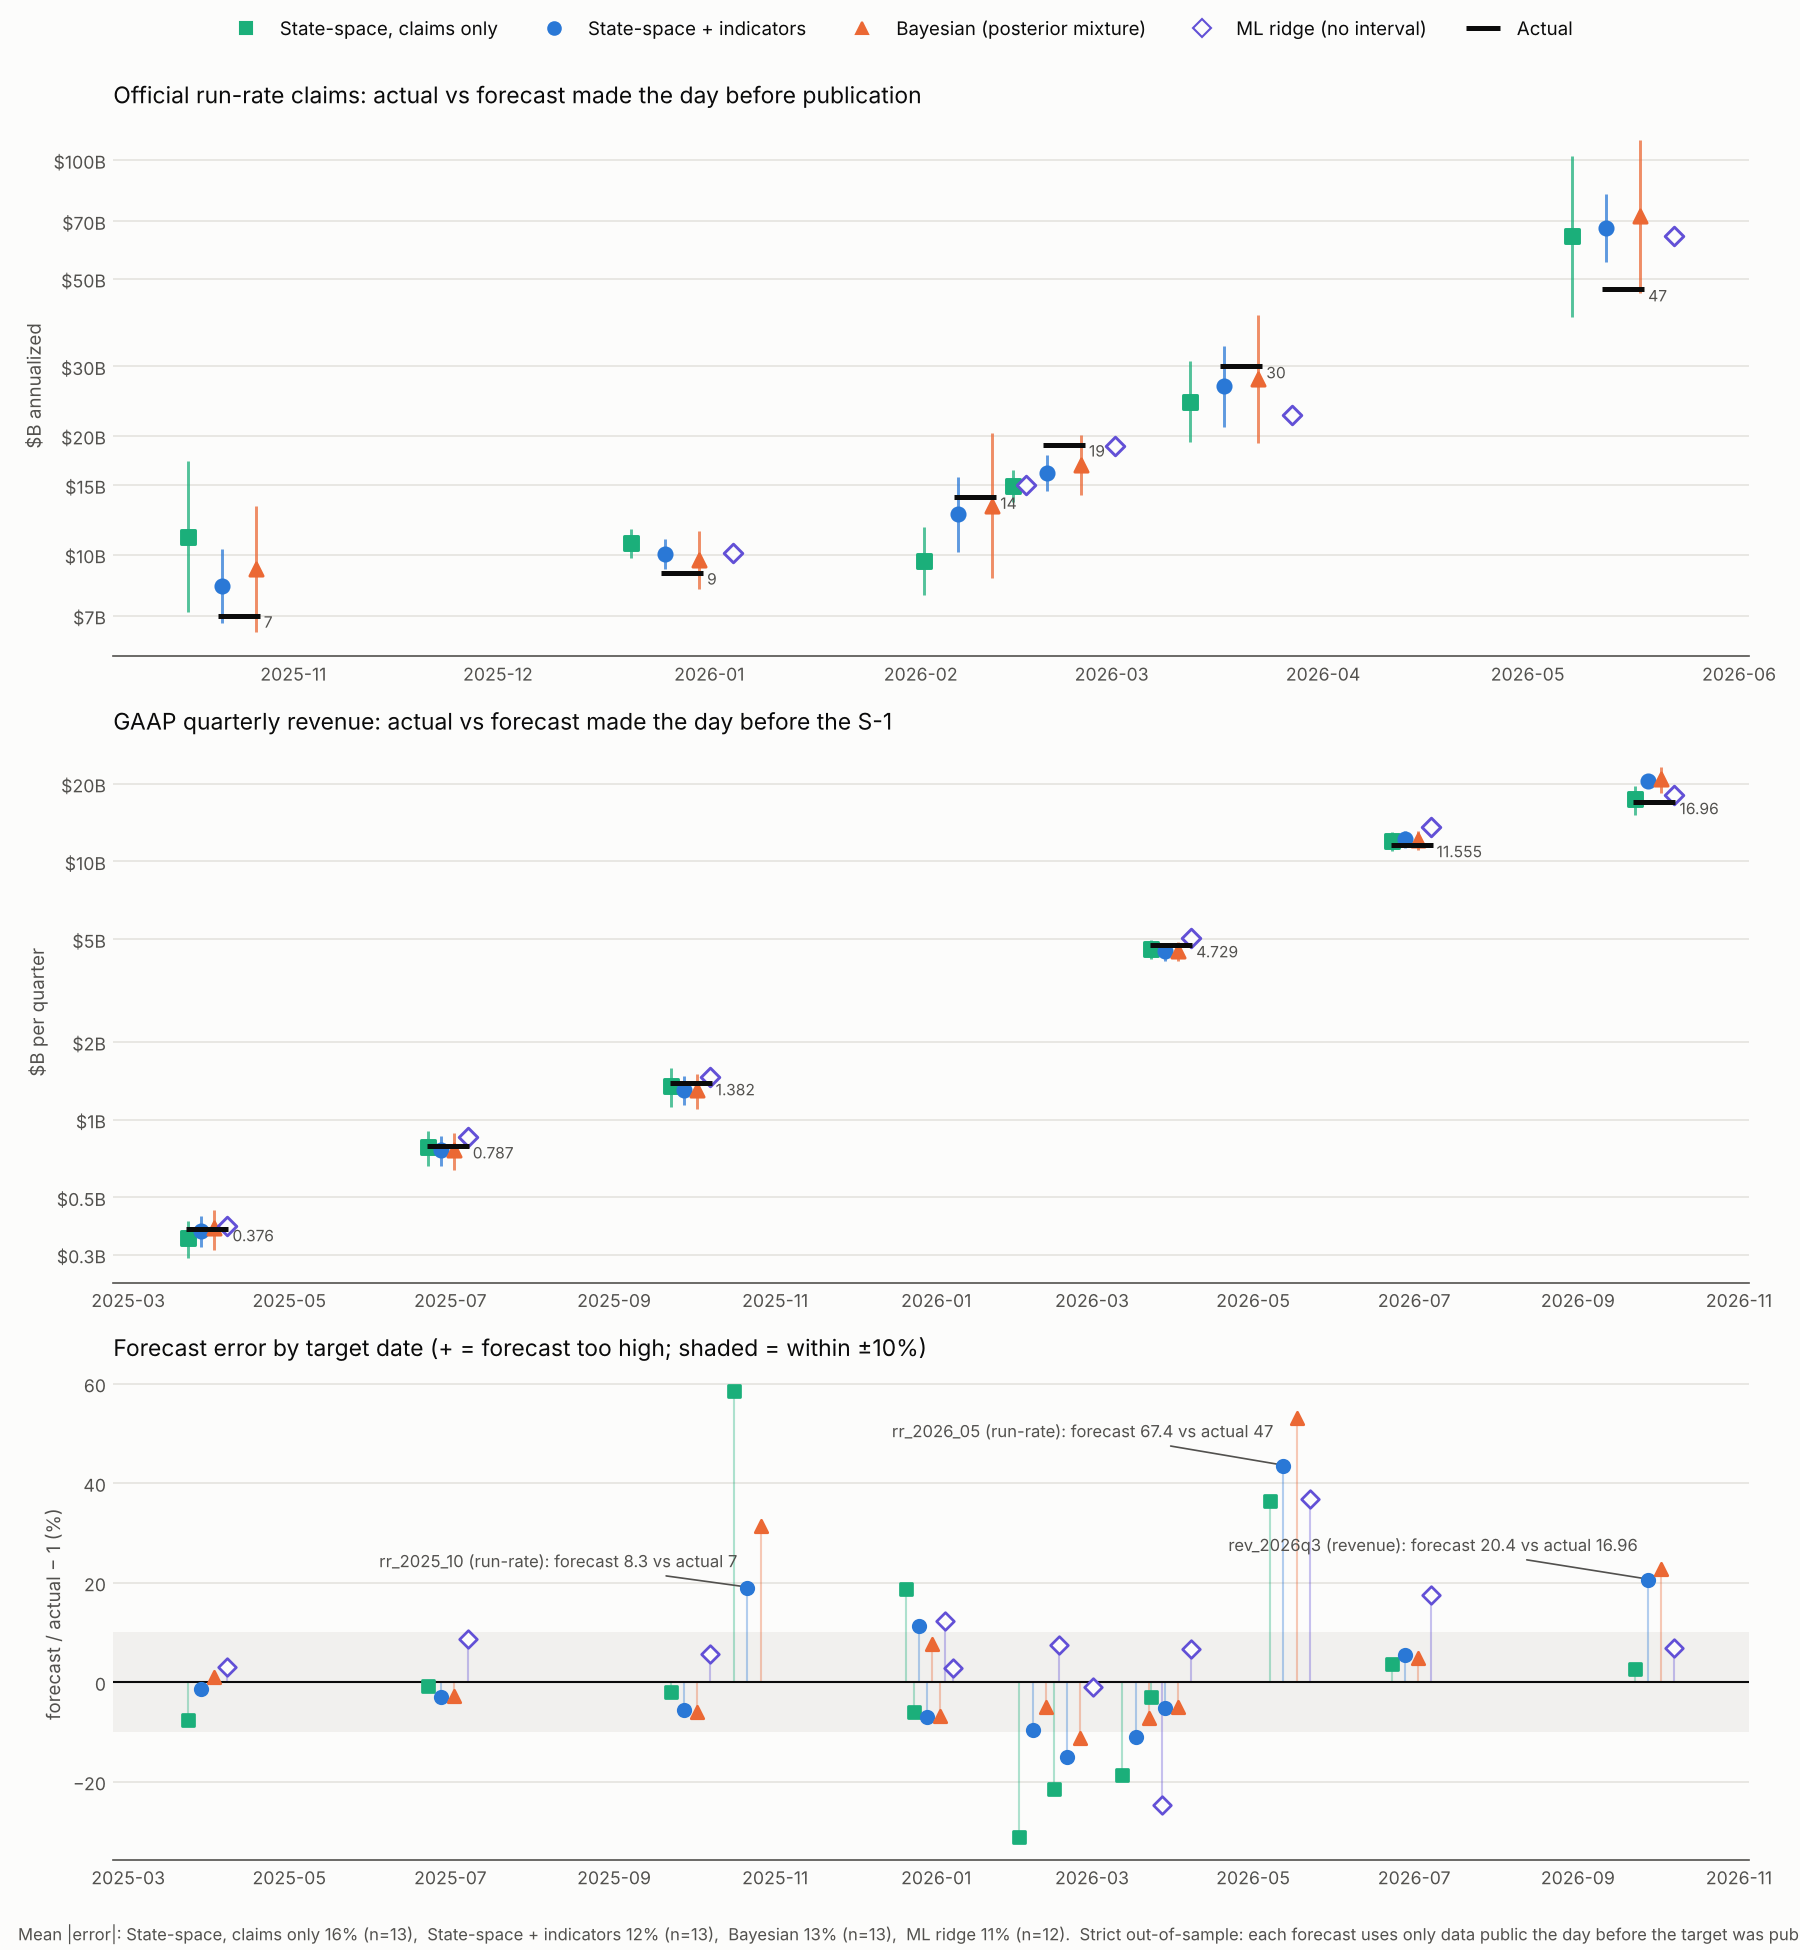
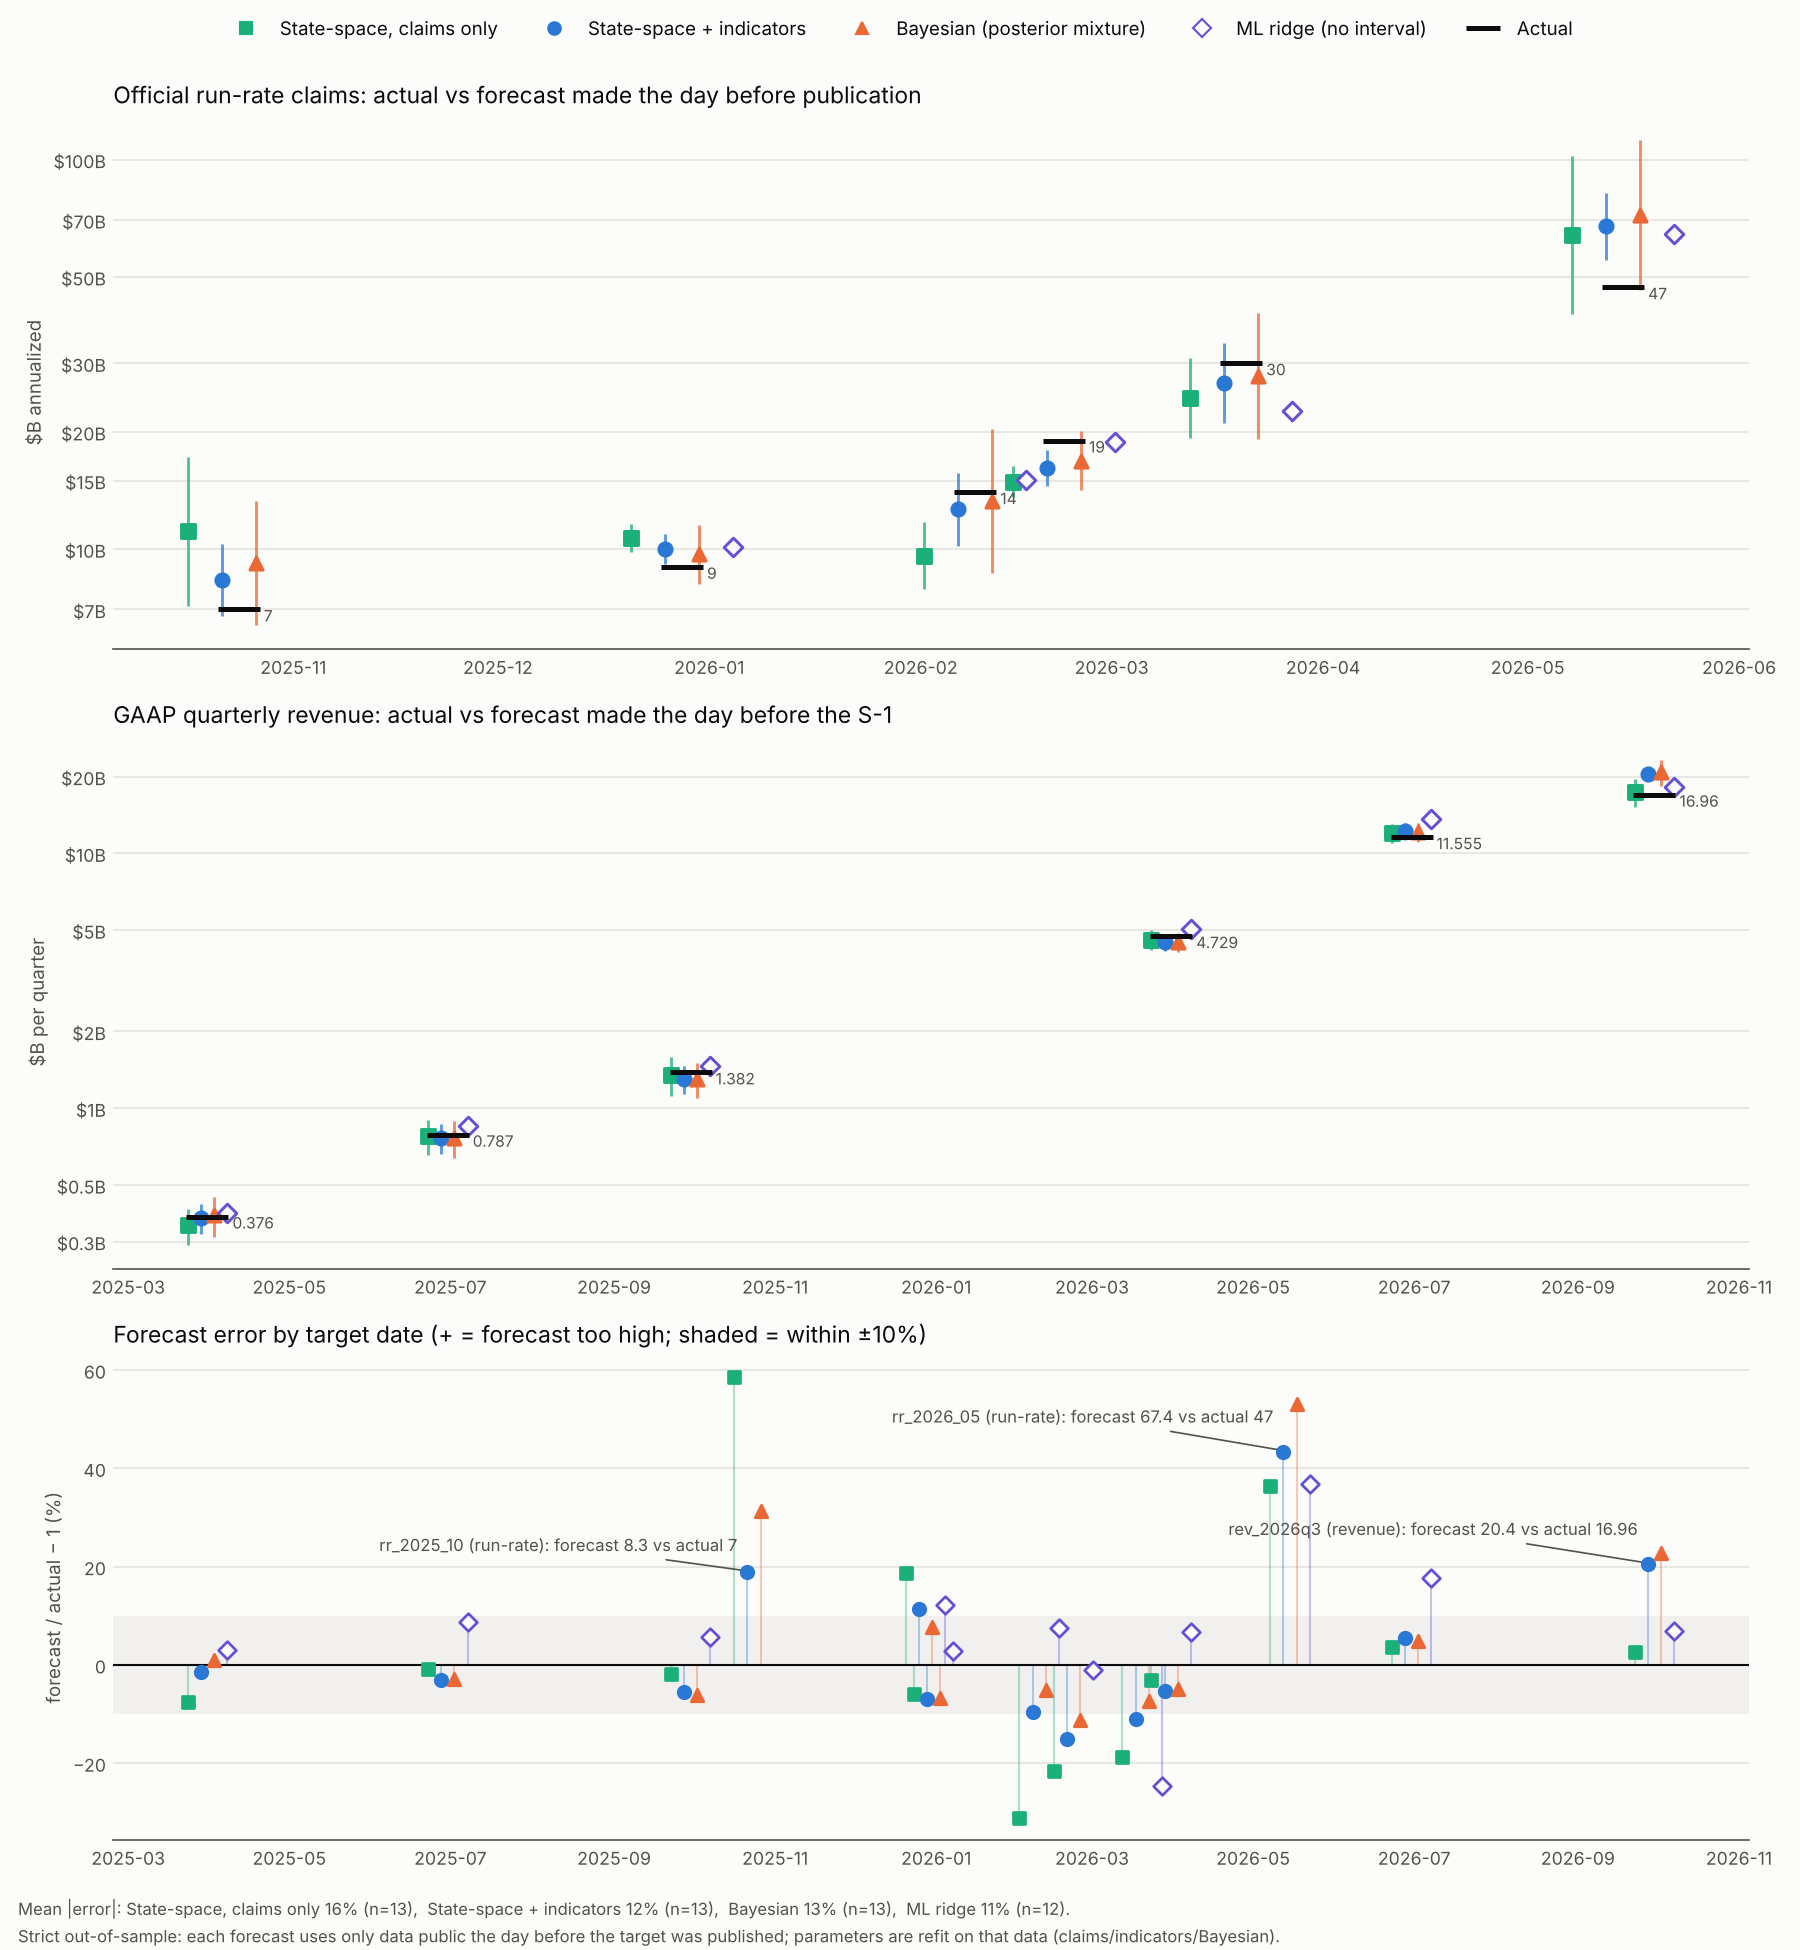
plot-errors: accept --asof; regenerate charts
Claude-Session: https://claude.ai/code/session_015VYmrmy85RRK3RPhYBL95Z

diff --git a/runrate_nowcast/__main__.py b/runrate_nowcast/__main__.py
@@ -50,7 +50,7 @@ def main(argv=None):
     p.add_argument("--lags", action="store_true", help="also mix over indicator lag and definition lag by evidence")
     p.add_argument("--register", action="store_true", help="append the summary to forecasts/registry.jsonl")
     sub.add_parser("bayes-backtest")
-    sub.add_parser("plot-errors")
+    p = sub.add_parser("plot-errors"); p.add_argument("--asof", default=None)
     a = ap.parse_args(argv)
 
     warnings.simplefilter("ignore")
